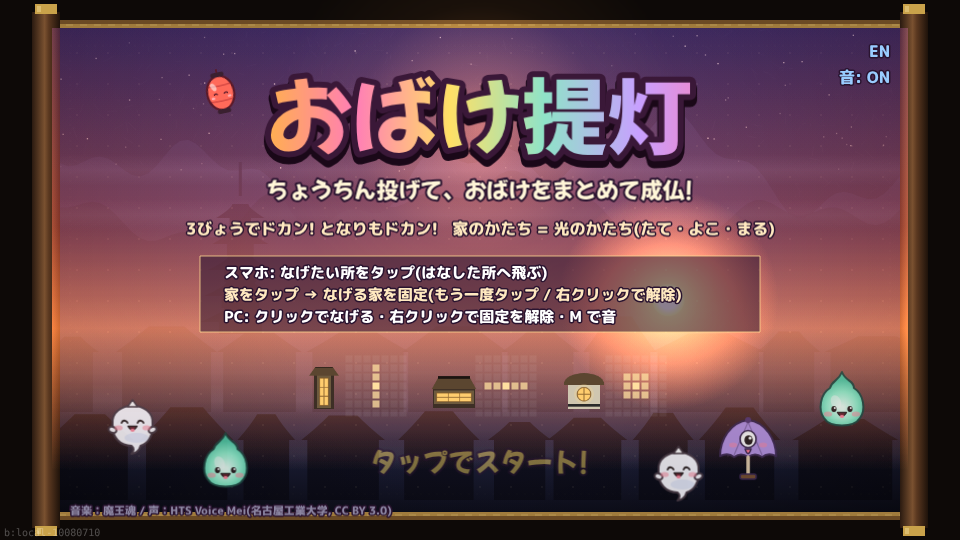
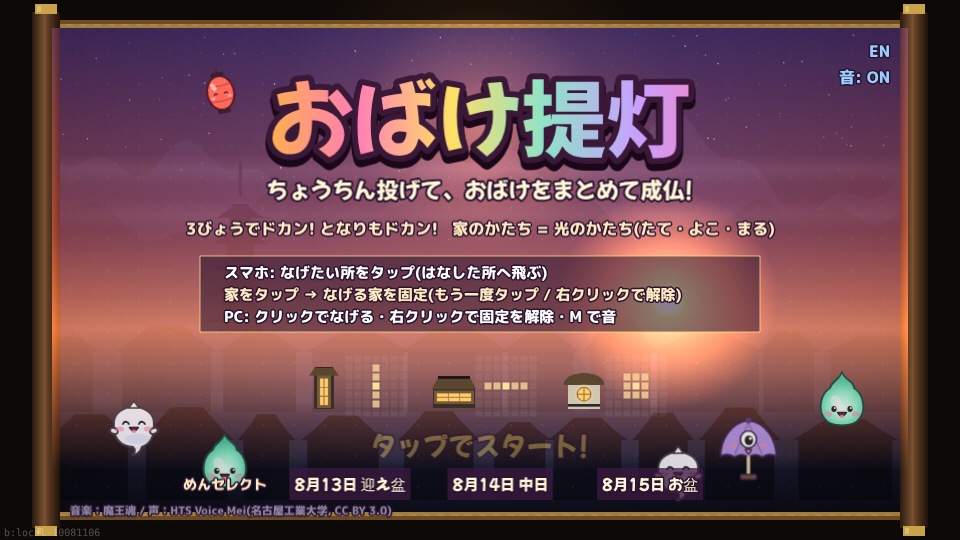
Pause menu (ESC / II) and stage select on the title
Claude-Session: https://claude.ai/code/session_011ZQ4bN2MTkz7EzzsNRZLay

diff --git a/src/scenes/Play.ts b/src/scenes/Play.ts
@@ -6,7 +6,7 @@ import { readParams } from '../game/params';
 import { Bot } from '../game/bot';
 import { snd, bgmStart, bgmStop, bgmIntensity, preloadSfx, sayObake, beatPos, cry } from '../game/sound';
 import { txt, pop, dayName, waveLabel } from '../game/view';
-import { dayOf, waveInDay } from '../game/waves';
+import { dayOf, waveInDay, WAVES_PER_DAY } from '../game/waves';
 import { PAPER } from '../game/art';
 import { onTap, onAim, onCancel } from '../ui/taps';
 import { DemoDriver, expose } from '../core/demo';
@@ -15,7 +15,7 @@ import { save, load } from '../core/save';
 import { tune } from '../core/tuning';
 import { startSeed } from '../core/rng';
 import { Recorder, Player, replayFromUrl } from '../core/replay';
-import { isMuted, toggleMuted } from '../core/audio';
+import { isMuted, toggleMuted, pauseAudio } from '../core/audio';
 
 const GHOST_TEX = { fuwa: 'g_fuwa', oni: 'g_oni', kasa: 'g_kasa', big: 'g_big', giant: 'g_giant' } as const;
 const GHOST_TINT: Partial<Record<GhostKind, number>> = { big: 0xffd6ea, giant: 0xd8c8ff };
@@ -66,6 +66,11 @@ export class Play extends Phaser.Scene {
   private scorePunch = false;
   private rushId = -1;
   private continues = 0;
+  private paused = false;
+  private pauseMenu: Phaser.GameObjects.Container | null = null;
+  private pauseItems: Phaser.GameObjects.Text[] = [];
+  private pauseSel = 0;
+  private pauseOff: (() => void) | null = null;
   private smoke!: Phaser.GameObjects.Particles.ParticleEmitter;
   private smokeTick = 0;
   private bloom!: Phaser.GameObjects.Particles.ParticleEmitter;
@@ -86,6 +91,7 @@ export class Play extends Phaser.Scene {
   create(data?: { continueWave?: number; continues?: number }) {
     expose('scene', 'Play');
     this.continues = data?.continues ?? 0;
+    this.paused = false; this.pauseMenu = null; this.pauseOff = null; this.time.paused = false;
     this.ended = false; this.acc = 0; this.pending = []; this.hitstop = 0; this.nightK = 0; this.afterglow = []; this.banners = []; this.bubbles = []; this.talked = new Set();
     this.gSprites.clear(); this.gGlows.clear(); this.lSprites.clear(); this.houseImgs = []; this.portalImgs = []; this.trails.clear();
 
@@ -154,24 +160,30 @@ export class Play extends Phaser.Scene {
     // HUD: 左にスコア(入るたびに跳ねる)、真ん中に刻、右にハイスコアと音
     this.scoreText = this.add.text(PAPER.x0 + 8, 18, '', txt(28)).setOrigin(0, 0.5).setDepth(50);
     this.watchText = this.add.text(W / 2, 18, '', txt(24, '#e8d6ff')).setOrigin(0.5).setDepth(50);
-    this.hiText = this.add.text(PAPER.x1 - 50, 18, '', txt(22, '#ffb0e0')).setOrigin(1, 0.5).setDepth(50);
+    this.hiText = this.add.text(PAPER.x1 - 84, 18, '', txt(22, '#ffb0e0')).setOrigin(1, 0.5).setDepth(50);
     const mute = this.add.text(PAPER.x1 - 8, 4, isMuted() ? '♪×' : '♪', txt(24, '#cfe')).setOrigin(1, 0).setDepth(50);
     this.shownScore = 0; this.scorePunch = false; this.rushId = -1;
     this.chainText = this.add.text(W / 2, H / 2, '', pop(40, '#fff3c0')).setOrigin(0.5).setDepth(60).setAlpha(0);
     if (this.player) this.add.text(W / 2, H - 22, t('replaying'), txt(14, '#aaf')).setOrigin(0.5).setDepth(50);
     else if (this.bot) this.add.text(W / 2, H - 22, t('demo'), txt(14, '#aaf')).setOrigin(0.5).setDepth(50);
 
+    // ポーズ: ESC か、右上の II
+    const pauseBtn = this.add.text(PAPER.x1 - 44, 4, 'II', txt(22, '#cfe')).setOrigin(1, 0).setDepth(50);
+    void pauseBtn;
+    this.input.keyboard?.on('keydown-ESC', () => { if (this.paused) this.resume(); else this.pause(); });
     this.offTap = onTap((x, y) => {
+      if (this.paused) { this.pauseTap(x, y); return; }
+      if (x > PAPER.x1 - 76 && x < PAPER.x1 - 34 && y < 34) { this.pause(); return; }
       // 右上の音ボタン
-      if (x > PAPER.x1 - 50 && y < 34) { toggleMuted(); mute.setText(isMuted() ? '♪×' : '♪'); if (isMuted()) bgmStop(); else bgmStart(); }
+      if (x > PAPER.x1 - 34 && y < 34) { toggleMuted(); mute.setText(isMuted() ? '♪×' : '♪'); if (isMuted()) bgmStop(); else bgmStart(); }
     });
     // 投げるのは「離した所」。押している間(マウスは動かすだけでも)、投げた時の光の範囲と、連爆するかが見える。
     // 家を押して、そのまま投げたい所まで動かして離すと、その家から投げる
     this.offAim = onAim((phase, x, y) => {
-      if (this.player || this.ended || this.bot) return;
+      if (this.player || this.ended || this.bot || this.paused) { this.aimDown = null; this.aim = null; return; }
       const g = this.game2;
       if (phase === 'down') {
-        if (x > PAPER.x1 - 50 && y < 34) { this.aimDown = null; return; }
+        if (x > PAPER.x1 - 76 && y < 34) { this.aimDown = null; return; }
         this.aimDown = { x, y, house: g.houses.findIndex((h) => Math.hypot(h.x - x, h.y - y) < HOUSE_R) };
       }
       if (phase === 'up') {
@@ -191,11 +203,11 @@ export class Play extends Phaser.Scene {
     // 右クリック: 選んだ家を外す(記録に残るよう、その家を押したことにする)
     const offCancel = onCancel(() => {
       const g = this.game2;
-      if (this.player || this.ended || this.bot || g.selected < 0) return;
+      if (this.player || this.ended || this.bot || this.paused || g.selected < 0) return;
       const h = g.houses[g.selected];
       this.pending.push([h.x, h.y]);
     });
-    this.events.once('shutdown', () => { this.offTap?.(); this.offTap = null; this.offAim?.(); this.offAim = null; offCancel(); bgmStop(); });
+    this.events.once('shutdown', () => { this.offTap?.(); this.offTap = null; this.offAim?.(); this.offAim = null; offCancel(); bgmStop(); pauseAudio(false); });
 
     bgmStart();
     preloadSfx();
@@ -203,6 +215,7 @@ export class Play extends Phaser.Scene {
   }
 
   update(_time: number, deltaMs: number) {
+    if (this.paused) return;
     if (this.hitstop > 0) { this.hitstop -= deltaMs; this.render(deltaMs / 1000); return; }
     this.acc += Math.min(deltaMs, 100) / 1000;
     const g = this.game2;
@@ -220,6 +233,61 @@ export class Play extends Phaser.Scene {
     this.updateHud();
     bgmIntensity(g.t / 180);
     if (g.over && !this.ended) this.finish();
+  }
+
+  /** ポーズ: 止めて、戻る / この日のはじめから / タイトルへ を出す */
+  private pause() {
+    if (this.paused || this.ended) return;
+    this.paused = true;
+    this.aim = null; this.aimDown = null;
+    snd.ui();
+    pauseAudio(true);
+    this.tweens.pauseAll(); this.time.paused = true;
+    const g = this.game2;
+    const c = this.add.container(0, 0).setDepth(200);
+    c.add(this.add.rectangle(W / 2, H / 2, W, H, 0x0a0614, 0.7));
+    c.add(this.add.text(W / 2, 150, t('paused'), pop(44, '#ffe27a')).setOrigin(0.5));
+    const items = [t('resume'), `${dayName(dayOf(g.wave))}${t('restartDay')}`, t('toTitle')];
+    this.pauseItems = items.map((s, i) => {
+      const o = this.add.text(W / 2, 250 + i * 64, s, pop(26, '#fff6d8')).setOrigin(0.5);
+      c.add(o); return o;
+    });
+    c.add(this.add.text(W / 2, 450, t('pauseHelp'), txt(14, '#bfb0d8')).setOrigin(0.5));
+    this.pauseMenu = c;
+    this.pauseSel = 0; this.markPause();
+    const kb = this.input.keyboard;
+    const nav = (e: KeyboardEvent) => {
+      if (!this.paused) return;
+      if (e.key === 'ArrowUp' || e.key === 'w') { this.pauseSel = (this.pauseSel + 2) % 3; this.markPause(); }
+      else if (e.key === 'ArrowDown' || e.key === 's') { this.pauseSel = (this.pauseSel + 1) % 3; this.markPause(); }
+      else if (e.key === 'Enter' || e.key === ' ') this.pick(this.pauseSel);
+    };
+    kb?.on('keydown', nav);
+    this.pauseOff = () => kb?.off('keydown', nav);
+  }
+  private markPause() {
+    this.pauseItems.forEach((o, i) => o.setColor(i === this.pauseSel ? '#ffe27a' : '#fff6d8').setScale(i === this.pauseSel ? 1.12 : 1));
+  }
+  private pauseTap(x: number, y: number) {
+    const i = this.pauseItems.findIndex((o) => Phaser.Geom.Rectangle.Contains(Phaser.Geom.Rectangle.Inflate(o.getBounds(), 30, 12), x, y));
+    if (i >= 0) this.pick(i);
+  }
+  private pick(i: number) {
+    const g = this.game2;
+    if (i === 0) { this.resume(); return; }
+    this.resume(false);
+    if (i === 1) this.scene.start('Play', { continueWave: dayOf(g.wave) * WAVES_PER_DAY, continues: this.continues });
+    else this.scene.start('Title');
+  }
+  private resume(sound = true) {
+    if (!this.paused) return;
+    this.paused = false;
+    this.pauseOff?.(); this.pauseOff = null;
+    this.pauseMenu?.destroy(); this.pauseMenu = null;
+    this.tweens.resumeAll(); this.time.paused = false;
+    pauseAudio(false);
+    if (sound) snd.ui();
+    this.acc = 0;
   }
 
   private finish() {

diff --git a/src/scenes/Title.ts b/src/scenes/Title.ts
@@ -5,7 +5,8 @@ import { load } from '../core/save';
 import { DemoDriver, expose } from '../core/demo';
 import { onTap } from '../ui/taps';
 import { snd, preloadSfx } from '../game/sound';
-import { txt, pop } from '../game/view';
+import { txt, pop, dayName } from '../game/view';
+import { WAVES_PER_DAY } from '../game/waves';
 import { PAPER } from '../game/art';
 import { W, H, PIECE_SETS } from '../game/logic';
 import { readParams } from '../game/params';
@@ -73,10 +74,16 @@ export class Title extends Phaser.Scene {
     });
 
     this.add.text(PAPER.x0 + 14, H - 30, t('musicCredit'), txt(11, '#8a84a0')).setOrigin(0, 0.5);
-    const start = this.add.text(W / 2, 462, t('tapToStart'), pop(26, '#ffe066')).setOrigin(0.5);
+    const start = this.add.text(W / 2, 446, t('tapToStart'), pop(26, '#ffe066')).setOrigin(0.5);
     this.tweens.add({ targets: start, alpha: 0.35, yoyo: true, repeat: -1, duration: 700 });
     const best = load().best;
-    if (best > 0) this.add.text(W / 2, 500, `${t('best')} ${best}`, txt(14, '#cccccc')).setOrigin(0.5);
+    if (best > 0) this.add.text(PAPER.x0 + 14, 36, `${t('best')} ${best}`, txt(14, '#cccccc')).setOrigin(0, 0);
+    // めんセレクト: 8/13・8/14・8/15 のどの日からでも始められる(キー 1・2・3 でも)
+    this.add.text(W / 2 - 210, 484, t('stageSelect'), txt(14, '#ffe9c0')).setOrigin(1, 0.5);
+    const days = [0, 1, 2].map((d) => {
+      const o = this.add.text(W / 2 - 130 + d * 150, 484, dayName(d), pop(15, '#fff6d8', { backgroundColor: 'rgba(60,24,64,0.75)', strokeThickness: 3 })).setOrigin(0.5);
+      return o;
+    });
 
     // 右上: 言語 / 音
     const langBtn = this.add.text(PAPER.x1 - 14, 36, t('lang'), txt(16, '#9cf')).setOrigin(1, 0);
@@ -85,14 +92,15 @@ export class Title extends Phaser.Scene {
 
     let gone = false;
     preloadSfx();
-    const go = () => { if (gone) return; gone = true; snd.ui(); this.scene.start('Play'); };
+    const go = (day = 0) => { if (gone) return; gone = true; snd.ui(); this.scene.start('Play', day ? { continueWave: day * WAVES_PER_DAY } : undefined); };
     const off = onTap((x, y) => {
       if (hit(langBtn, x, y)) { snd.ui(); toggleLang(); this.scene.restart(); return; }
       if (hit(muteBtn, x, y)) { toggleMuted(); muteBtn.setText(isMuted() ? t('unmute') : t('mute')); snd.ui(); return; }
-      go();
+      const d = days.findIndex((o) => hit(o, x, y));
+      go(Math.max(0, d));
     });
     this.events.once('shutdown', off);
-    this.input.keyboard?.on('keydown', (e: KeyboardEvent) => { if (e.key !== 'F2') go(); });
+    this.input.keyboard?.on('keydown', (e: KeyboardEvent) => { if (e.key === 'F2') return; go(['1', '2', '3'].includes(e.key) ? Number(e.key) - 1 : 0); });
     if (DemoDriver.enabled) this.time.delayedCall(800, go);
   }
 }

diff --git a/src/core/audio.ts b/src/core/audio.ts
@@ -21,7 +21,7 @@ function ensure(): AudioContext | null {
     try { ctx = new (window.AudioContext || (window as any).webkitAudioContext)(); } catch { return null; }
     buildBus(ctx);
   }
-  if (ctx.state === 'suspended') ctx.resume().catch(() => {});
+  if (ctx.state === 'suspended' && !audioPaused) ctx.resume().catch(() => {});
   return ctx;
 }
 
@@ -53,6 +53,13 @@ const out = (c: AudioContext) => bus ?? c.destination;
 
 /** 最初のタップ / キーで呼ぶ。以後 beep が鳴るようになる */
 export function unlock() { ensure(); }
+/** ポーズ中は音を止める(曲も効果音も、その場で止まって、戻すと続きから) */
+let audioPaused = false;
+export function pauseAudio(p: boolean) {
+  audioPaused = p;
+  if (!ctx) return;
+  if (p) ctx.suspend().catch(() => {}); else ctx.resume().catch(() => {});
+}
 
 export function isMuted() { return muted; }
 export function setMuted(m: boolean) { muted = m; save({ muted: m }); if (musicGain) musicGain.gain.value = m ? 0 : musicVol; }

diff --git a/src/core/i18n.ts b/src/core/i18n.ts
@@ -40,6 +40,11 @@ const TABLE: Record<string, { ja: string; en: string }> = {
   obakeComing: { ja: 'おばけが、くるぞー!', en: 'Here come the ghosts!' },
   // おばけのセリフ(| で区切って、順番に使う)
   wave: { ja: 'ウェーブ', en: 'Wave' },
+  paused: { ja: 'ポーズ', en: 'PAUSED' },
+  resume: { ja: 'もどる', en: 'Resume' },
+  restartDay: { ja: ' のはじめから', en: ' — restart the day' },
+  pauseHelp: { ja: 'ESC でもどる / ↑↓ と Enter でえらぶ', en: 'ESC to resume / arrows + Enter to choose' },
+  stageSelect: { ja: 'めんセレクト', en: 'STAGE' },
   continue: { ja: 'コンティニュー', en: 'CONTINUE' },
   continueFrom: { ja: ' のはじめから(スコアは 0 から)', en: ' from the start (score resets)' },
   continueCount: { ja: 'コンティニュー', en: 'Continues' },

diff --git a/SPEC.md b/SPEC.md
@@ -26,7 +26,7 @@
 - 大入道: 1 刻目から出る大きなおばけ。ゆっくりで、光 3 回で成仏(当たるたびに小さくなる。数字は出さない)。点は 5 倍。大大入道は 3 刻目から、もっと大きくてもっとゆっくり、光 6 回、点は 12 倍。
 - おばけ(決まった道筋。どれも途中で 1〜2 回だけ向きが変わる): 幽霊 = 主に縦(降りる → 少し横 → 降りる)/ 唐傘 = 主に横(端から出て少し降り、長く横へ渡り、家の上で降りる)/ 鬼火 = 輪を 1 周描いてから突っ込む(ギャラガ。輪の間は丸が有利)。おばけは BGM の拍(152 BPM)に合わせて弾む。巻物の上の外から降りてくる。
 - 得点: 1 回の光と誘爆の n 体目は 10 × n 点。3 連以上は「N コンボ!」ボーナス 50 ×(n-2)²(決めた所にぽんっと出る。上のスコアは数え上がって跳ねる)。一緒に来た編隊を一度に全部倒すと編隊ボーナス 100 × 数 × 刻(大きく表示)。ハイスコアを画面上に出す。8 連以上で消えた家が 1 つ戻る。
-- 日とウェーブ(src/game/waves.ts): **8/13(迎え盆)・8/14・8/15(お盆)の 3 日 × 最大 3 ウェーブ = 全 9 ウェーブ。8/15 を凌げばクリア → エンディングとスタッフロール**。負けたらコンティニューで、その日のはじめから(スコアは 0 から)。お月さまの顔は日ごとに変わる。日が変わると家はみんな灯り直す。空は毎日夕方から夜へ。8/13 は少なめでサクサク、いろんなおばけの顔見世。後の日ほど型を重ねる(一列 / 横並び / 段 / 横渡り / 交差 / 輪 / 大入道 / せき止め)。
+- 日とウェーブ(src/game/waves.ts): **8/13(迎え盆)・8/14・8/15(お盆)の 3 日 × 最大 3 ウェーブ = 全 9 ウェーブ。8/15 を凌げばクリア → エンディングとスタッフロール**。負けたらコンティニューで、その日のはじめから(スコアは 0 から)。お月さまの顔は日ごとに変わる。ESC(スマホは右上の II)でポーズ: もどる / その日のはじめから / タイトルへ。タイトルの「めんセレクト」でどの日からでも始められる。日が変わると家はみんな灯り直す。空は毎日夕方から夜へ。8/13 は少なめでサクサク、いろんなおばけの顔見世。後の日ほど型を重ねる(一列 / 横並び / 段 / 横渡り / 交差 / 輪 / 大入道 / せき止め)。
 - 空: タイトルと 1 刻目は夕焼け、5 刻目までにだんだん夜になり、月が昇る。
 - やられたおばけは目が ＞＜(唐傘は ×)になって口をぽかんと開け、くるっと回って昇って消える。声で「やられたー!」「ひゃー!」など(たくさん倒れてもうるさくならないよう間を空ける)。
 - 連爆の音: 2 つ目からは高くてきれいな鐘が明るい音階で上がっていき(ピン・ポン・パーン…)、3 体以上まとめると締めに「ピンポンパーン!」。

diff --git a/QUESTIONS.md b/QUESTIONS.md
@@ -48,3 +48,4 @@
 - [ ] (21 回目)誘爆の間 0.2 秒(F2 の chain.delay。0.1 だと速い連打、0.3 だとためが効く。0 で前の一気に戻る)。
 - [ ] (22 回目)家に飛び込む勢い: 70px 手前から 2.2 倍(F2 の ghost.dashR / ghost.dash)。直前で助けるのは難しくなる。
 - [ ] (24 回目)コンティニューはスコアを 0 に戻す(ハイスコアを公平に。他の案: スコアを持ち越して回数だけ出す)。回数の上限なし。
+- [ ] (25 回目)めんセレクトは最初から 3 日とも選べる(他の案: たどり着いた日だけ開く)。
